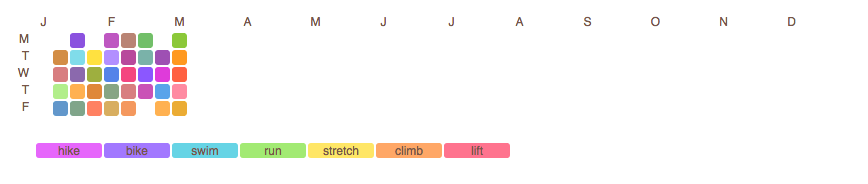
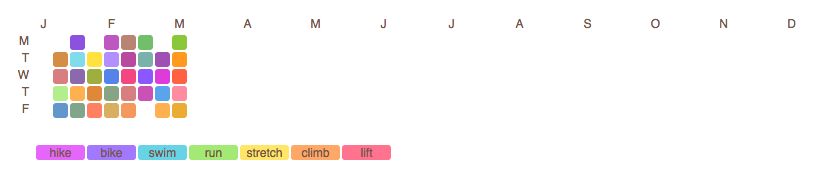
new image

diff --git a/app.js b/app.js
@@ -1,17 +1,16 @@
-// set up your
+// set up your variables
 var margin = { top: 30, right: 0, bottom: 30, left: 30 },
     width = 960 - margin.left - margin.right,
     gridSize = Math.floor(width / 52),
     height = (gridSize * 10) - margin.top - margin.bottom,
-    legendElementWidth = gridSize*4,
-    data = ['someData'], // comment out later
+    legendElementWidth = gridSize*3,
     values = ['hike', 'bike', 'swim', 'run', 'stretch', 'climb', 'lift'],
     colors = ["#D500F9", "#651FFF", "#00B8D4", "#64DD17", "#FFD600", "#FF6D00", "#FF1744"],
     days = ["M", "T", "W", "T", "F"],
     weeks = ["J", "", "", "", "F", "", "", "", "M", "", "", "", "A", "", "", "", "M", "", "", "", "J", "", "", "", "J", "", "", "", "A", "", "", "", "S", "", "", "", "O", "", "", "", "N", "", "", "", "D", "", "", "" ];
 
 d3.tsv("heat-map-sample-data.tsv", // Data parsing! Your data here: ('path', callback(), callback())
-  function(d) {
+  function(d) { // here you construct your data object
     day = moment(d.date, "MM/DD/YYYY").day()
     week = moment(d.date, "MM/DD/YYYY").week()
     return {
@@ -21,7 +20,7 @@ d3.tsv("heat-map-sample-data.tsv", // Data parsing! Your data here: ('path', cal
       type: d.type
     };
   },
-  function(error, data) {
+  function(error, data) { // this is the meat of your graphic
 
     // var newValues = [] // find color domain
     // // make an object first
@@ -77,7 +76,7 @@ d3.tsv("heat-map-sample-data.tsv", // Data parsing! Your data here: ('path', cal
         .attr("width", gridSize)
         .attr("height", gridSize)
         .style("fill", function(d) { return colorScale(d.type);})
-        .style("fill-opacity", "50%");
+        .style("fill-opacity", "30%");
         // .style("fill", colors[0]);
 
     heatMap.transition().duration(1000)
@@ -91,7 +90,7 @@ d3.tsv("heat-map-sample-data.tsv", // Data parsing! Your data here: ('path', cal
     var legend = svg.selectAll(".legend")
         .data(colorScale.domain(), function(d) { return d; })
         .enter().append("g")
-        // .attr("class", "legend");
+        .attr("class", "legend");
 
     legend.append("rect")
       .attr("x", function(d, i) { return legendElementWidth * i; })

diff --git a/style.css b/style.css
@@ -12,17 +12,3 @@ text.mono {
   font-family: sans-serif;
   fill: #795548;
 }
-
-/*.legend {
-  font-size: 9pt;
-  font-family: sans-serif;
-  fill: black;
-}*/
-
-/*text.axis-workweek {
-  fill: #000;
-}
-
-text.axis-week {
-  fill: #000;
-}*/
